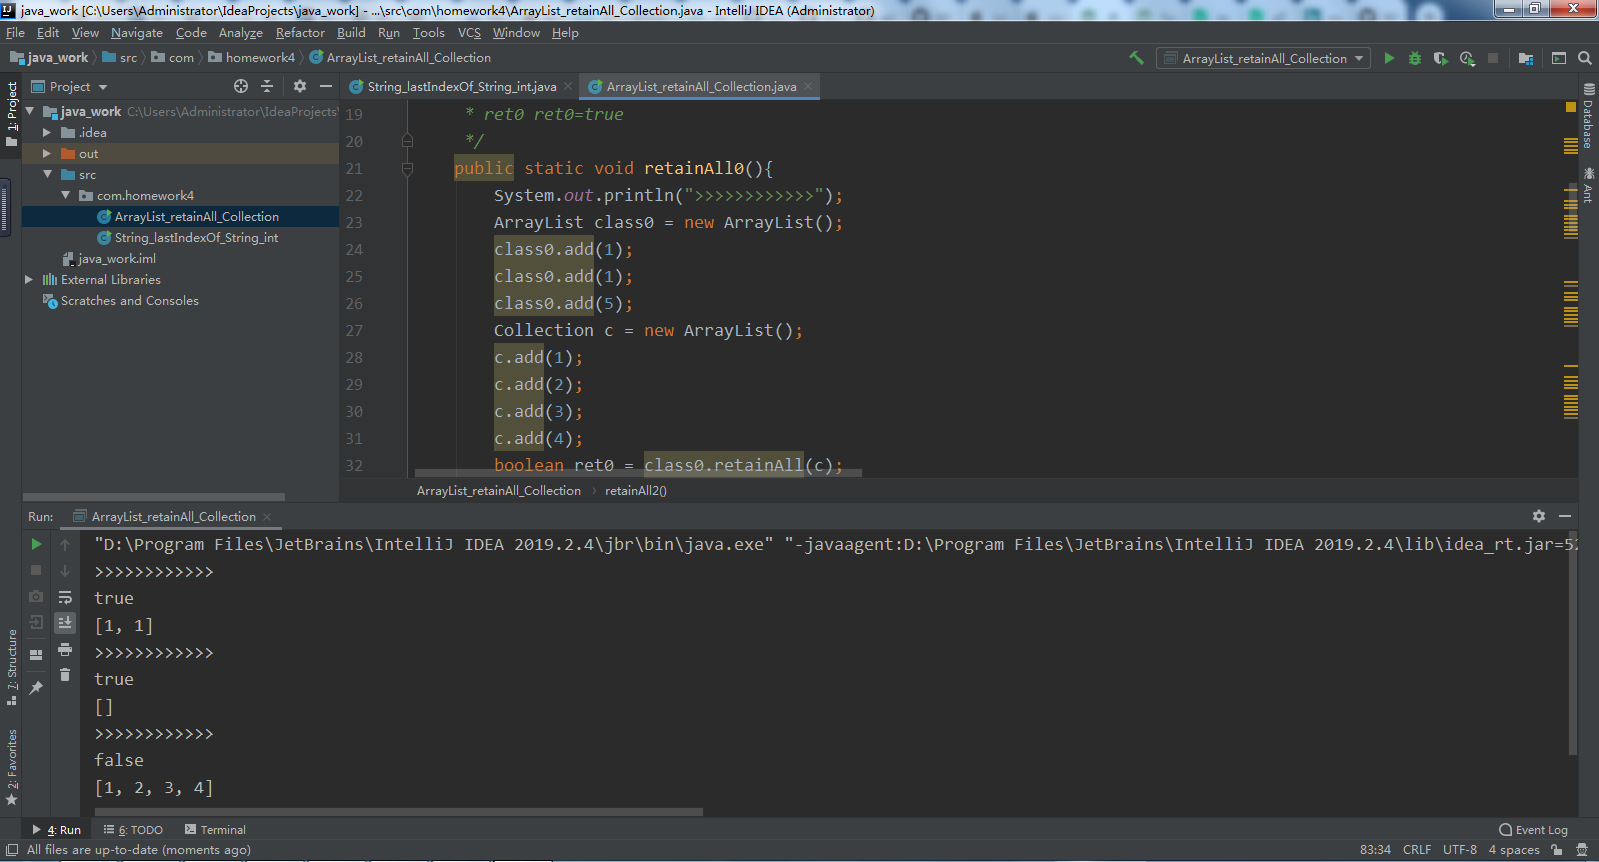
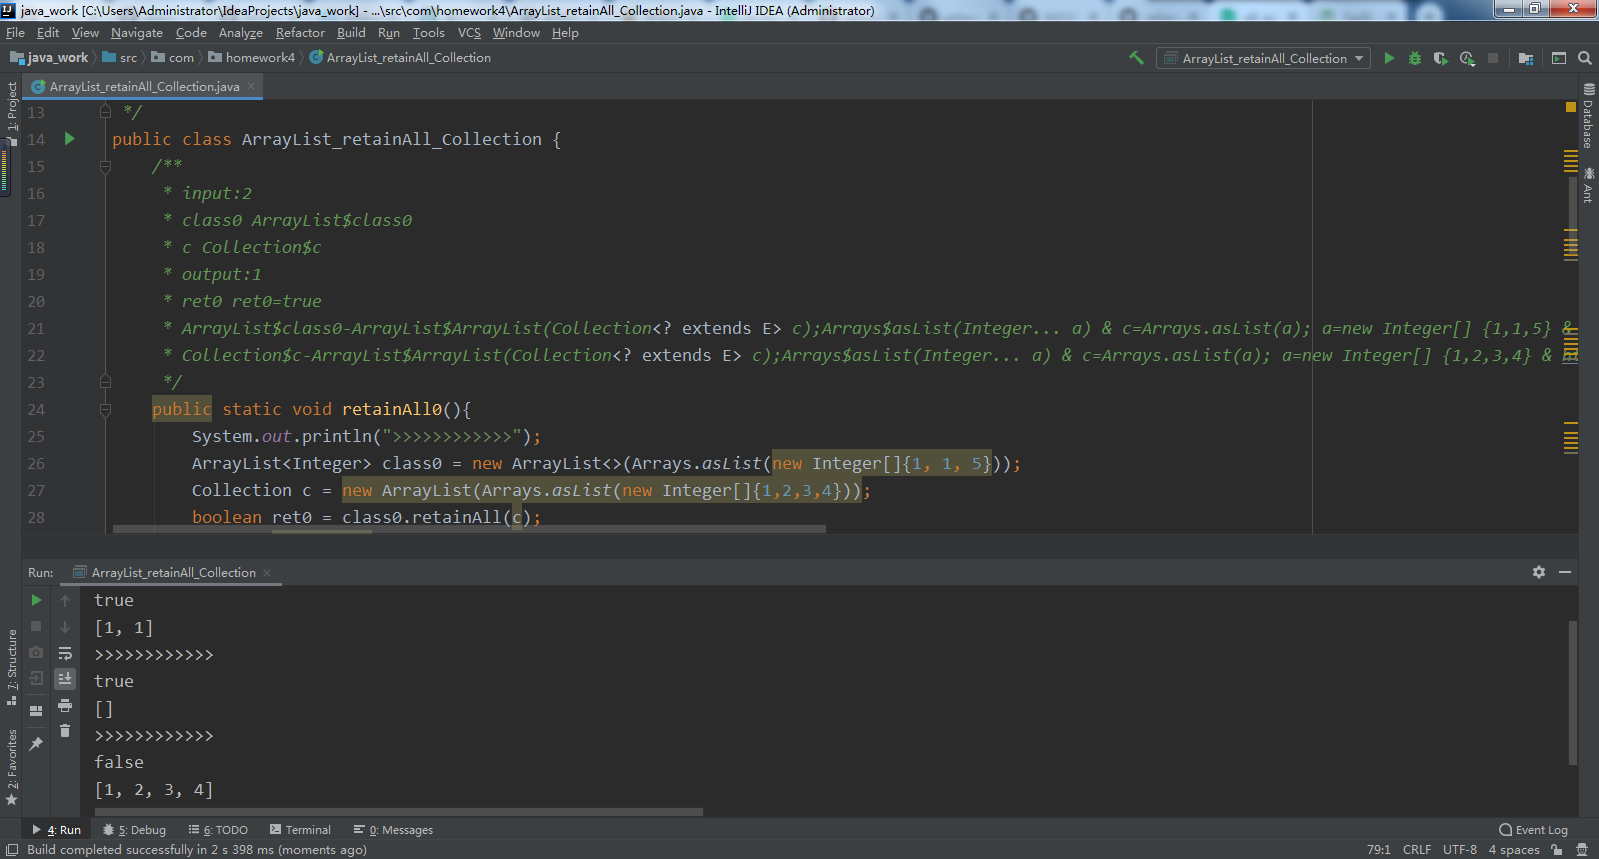
2019/11/25 互评作业

diff --git a/DZ1633005/java/ArrayList_retainAll_Collection.java b/DZ1633005/java/ArrayList_retainAll_Collection.java
@@ -1,6 +1,7 @@
 package com.homework4;
 
 import java.util.ArrayList;
+import java.util.Arrays;
 import java.util.Collection;
 
 /**类名_方法名(_形参类型)*
@@ -13,22 +14,17 @@ import java.util.Collection;
 public class ArrayList_retainAll_Collection {
     /**
      * input:2
-     * class0 ArrayList$class0=[1,1,5]
-     * c Collection$c=[1,2,3,4]
+     * class0 ArrayList$class0
+     * c Collection$c
      * output:1
      * ret0 ret0=true
+     * ArrayList$class0-ArrayList$ArrayList(Collection<? extends E> c);Arrays$asList(Integer... a) & c=Arrays.asList(a); a=new Integer[] {1,1,5} & https://developer.android.com/reference/java/util/ArrayList.html
+     * Collection$c-ArrayList$ArrayList(Collection<? extends E> c);Arrays$asList(Integer... a) & c=Arrays.asList(a); a=new Integer[] {1,2,3,4} & https://developer.android.com/reference/java/util/ArrayList.html
      */
     public static void retainAll0(){
         System.out.println(">>>>>>>>>>>>");
-        ArrayList class0 = new ArrayList();
-        class0.add(1);
-        class0.add(1);
-        class0.add(5);
-        Collection c = new ArrayList();
-        c.add(1);
-        c.add(2);
-        c.add(3);
-        c.add(4);
+        ArrayList<Integer> class0 = new ArrayList<>(Arrays.asList(new Integer[]{1, 1, 5}));
+        Collection c = new ArrayList(Arrays.asList(new Integer[]{1,2,3,4}));
         boolean ret0 = class0.retainAll(c);
         assert (ret0==true);
         System.out.println(ret0);
@@ -37,22 +33,18 @@ public class ArrayList_retainAll_Collection {
 
     /**
      * input:2
-     * class0 ArrayList$class0=[1,1,5]
-     * c Collection$c=[2,3,4]
+     * class0 ArrayList$class0
+     * c Collection$c
      * output:1
      * ret0 ret0=true
+     * ArrayList$class0-ArrayList$ArrayList(Collection<? extends E> c);Arrays$asList(Integer... a) & c=Arrays.asList(a); a=new Integer[] {1,1,5} & https://developer.android.com/reference/java/util/ArrayList.html
+     * Collection$c-ArrayList$ArrayList(Collection<? extends E> c);Arrays$asList(Integer... a) & c=Arrays.asList(a); a=new Integer[] {2,3,4} & https://developer.android.com/reference/java/util/ArrayList.html
      */
 
     public static void retainAll1(){
         System.out.println(">>>>>>>>>>>>");
-        ArrayList class0 = new ArrayList();
-        class0.add(1);
-        class0.add(1);
-        class0.add(5);
-        Collection c = new ArrayList();
-        c.add(2);
-        c.add(3);
-        c.add(4);
+        ArrayList<Integer> class0 = new ArrayList<>(Arrays.asList(new Integer[]{1, 1, 5}));
+        Collection c = new ArrayList(Arrays.asList(new Integer[]{2,3,4}));
         boolean ret0 = class0.retainAll(c);
         assert (ret0==true);
         System.out.println(ret0);
@@ -61,23 +53,17 @@ public class ArrayList_retainAll_Collection {
 
     /**
      * input:2
-     * class0 ArrayList$class0=[1,2,3,4]
-     * c Collection$c=[1,2,3,4]
+     * class0 ArrayList$class0
+     * c Collection$c
      * output:1
-     * ret0 ret0=false
+     * ret0 ret0=true
+     * ArrayList$class0-ArrayList$ArrayList(Collection<? extends E> c);Arrays$asList(Integer... a) & c=Arrays.asList(a); a=new Integer[] {1,2,3,4} & https://developer.android.com/reference/java/util/ArrayList.html
+     * Collection$c-ArrayList$ArrayList(Collection<? extends E> c);Arrays$asList(Integer... a) & c=Arrays.asList(a); a=new Integer[] {1,2,3,4} & https://developer.android.com/reference/java/util/ArrayList.html
      */
     public static void retainAll2(){
         System.out.println(">>>>>>>>>>>>");
-        ArrayList class0 = new ArrayList();
-        class0.add(1);
-        class0.add(2);
-        class0.add(3);
-        class0.add(4);
-        Collection c = new ArrayList();
-        c.add(1);
-        c.add(2);
-        c.add(3);
-        c.add(4);
+        ArrayList<Integer> class0 = new ArrayList<>(Arrays.asList(new Integer[]{1,2,3,4}));
+        Collection c = new ArrayList(Arrays.asList(new Integer[]{1,2,3,4}));
         boolean ret0 = class0.retainAll(c);
         assert (ret0==false);
         System.out.println(ret0);

diff --git a/DZ1633005/java/ArrayList_set_Int_Element.java b/DZ1633005/java/ArrayList_set_Int_Element.java
@@ -1,5 +1,6 @@
 package com.homework4;
 import java.util.ArrayList;
+import java.util.Arrays;
 
 /**类名_方法名(_形参类型)*
  * @author: DZ1633005 甘元柱
@@ -11,19 +12,16 @@ import java.util.ArrayList;
 public class ArrayList_set_Int_Element {
     /**
      * input: 3
-     * class0 ArrayList$class0=[1,2,3,4]
+     * class0 ArrayList$class0
      * index index=3
      * element element=10
      * output: 1
      * ret0  ret0=4
+     * ArrayList$class0-ArrayList$ArrayList(Collection<? extends E> c);Arrays$asList(Integer... a) & c=Arrays.asList(a); a=new Integer[] {1,2,3,4} & https://developer.android.com/reference/java/util/ArrayList.html
      */
     public static void set0(){
         System.out.println(">>>>>>>>>>>>");
-        ArrayList<Integer> class0 = new ArrayList<Integer>();
-        class0.add(1);
-        class0.add(2);
-        class0.add(3);
-        class0.add(4);
+        ArrayList<Integer> class0 = new ArrayList<>(Arrays.asList(new Integer[] { 1,2,3,4 }));
         System.out.println(class0);
         Integer index = 3;
         Integer element = 10;
@@ -35,19 +33,16 @@ public class ArrayList_set_Int_Element {
 
     /**
      * input: 3
-     * class0 ArrayList$class0=["nan","jing","da","xue"]
+     * class0 ArrayList$class0
      * index index=0
      * element element="bei"
      * output: 1
      * ret0  ret0="nan"
+     * ArrayList$class0-ArrayList$ArrayList(Collection<? extends E> c);Arrays$asList(String... a) & c=Arrays.asList(a); a=new String[] { "nan", "jing" ,"da", "xue"} & https://developer.android.com/reference/java/util/ArrayList.html
      */
     public static void set1(){
         System.out.println(">>>>>>>>>>>>");
-        ArrayList<String> class0 = new ArrayList<String>();
-        class0.add("nan");
-        class0.add("jing");
-        class0.add("da");
-        class0.add("xue");
+        ArrayList<String> class0 = new ArrayList<>(Arrays.asList(new String[] { "nan", "jing" ,"da", "xue"}));
         System.out.println(class0);
         Integer index = 0;
         String element = "bei";

diff --git a/DZ1633005/java/ArrayList_toArray.java b/DZ1633005/java/ArrayList_toArray.java
@@ -1,5 +1,6 @@
 package com.homework4;
 import java.util.ArrayList;
+import java.util.Arrays;
 
 /**类名_方法名(_形参类型)*
  * @author: DZ1633005 甘元柱
@@ -11,26 +12,21 @@ import java.util.ArrayList;
 public class ArrayList_toArray {
     /**
      * input: 1
-     * class0 ArrayList$class0=["nan", "jing"]
+     * class0 ArrayList$class0
      * output: 1
-     * ret0  Object$ret0=["nan","jing"]
+     * ret0 Object[]$ret0={"nan",  "jing"}
+     * ArrayList$class0-ArrayList$ArrayList(Collection<? extends E> c);Arrays$asList(String... a) & c=Arrays.asList(a); a=new String[] { "nan", "jing" }&https://developer.android.com/reference/java/util/ArrayList.html
      */
     public static void toArray0(){
         System.out.println(">>>>>>>>>>>>");
-        ArrayList<String> class0=new ArrayList<String>();
-        class0.add("nan");
-        class0.add("jing");
+        ArrayList<Object> class0 = new ArrayList<>(Arrays.asList(new Object[] { "nan", "jing" }));
         System.out.println(class0);
-        System.out.println(class0.getClass().getName());
-
         Object[] ret0= class0.toArray();
-        assert (ret0 instanceof java.lang.Object);
-        System.out.println(ret0[0]);
-        System.out.println(ret0[1]);
-        System.out.println(ret0.getClass().getName());
+        assert (Arrays.equals(ret0, new Object[]{"nan", "jing"}));
     }
 
     public static void main(String[] args) {
         ArrayList_toArray.toArray0();
+
     }
 }
